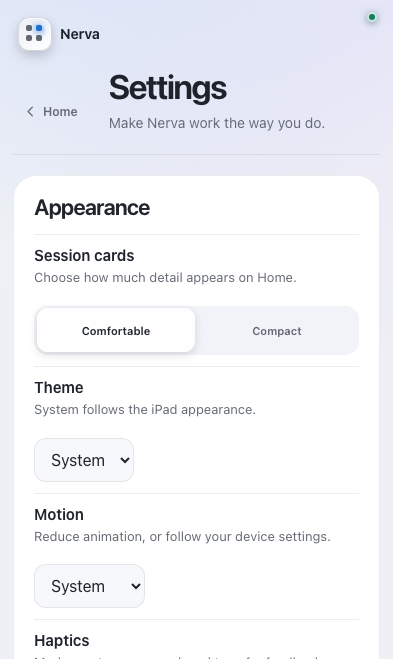
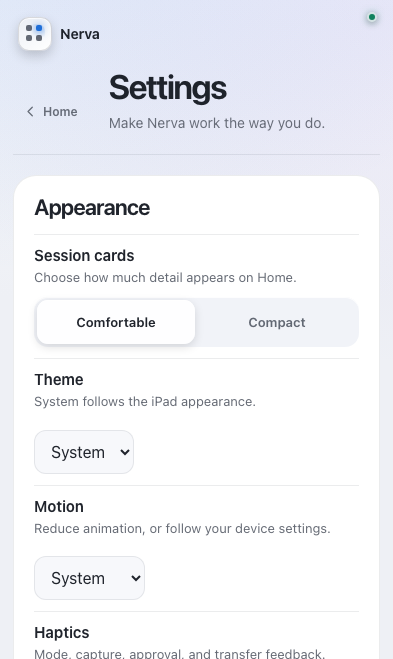
Keep appearance choices readable on portrait iPads

diff --git a/apps/web/e2e/codex-pad.spec.ts b/apps/web/e2e/codex-pad.spec.ts
@@ -2385,10 +2385,35 @@ test("approves only the exact pending request tuple", async ({ page }) => {
   });
 });
 
-test("shows real Settings controls and paired device management", async ({ page }) => {
+test("shows real Settings controls and paired device management", async ({ page }, testInfo) => {
+  if (testInfo.project.name.includes("portrait")) await page.setViewportSize({ width: 820, height: 1148 });
   await openAuthenticatedApp(page);
   await page.getByRole("button", { name: "Open Settings" }).click();
   await expect(page.getByRole("heading", { name: "Settings" })).toBeVisible();
+  await page.evaluate(async () => {
+    await Promise.all(document.getAnimations()
+      .filter((animation) => animation.effect?.getTiming().iterations !== Infinity)
+      .map((animation) => animation.finished.catch(() => undefined)));
+  });
+  const appearance = page.getByText("Choose how much detail appears on Home.", { exact: true });
+  const appearanceLayout = await appearance.evaluate((description) => {
+    const row = description.closest(".cp-setting-row")!;
+    const bounds = description.getBoundingClientRect();
+    const rowBounds = row.getBoundingClientRect();
+    return {
+      width: bounds.width, height: bounds.height, rowWidth: rowBounds.width,
+      lineHeight: Number.parseFloat(getComputedStyle(description).lineHeight),
+      minControlHeight: Math.min(...[...row.querySelectorAll("button")].map((button) => button.getBoundingClientRect().height)),
+      controlsFit: [...row.querySelectorAll("button")].every((button) => {
+        const control = button.getBoundingClientRect();
+        return control.left >= rowBounds.left - 1 && control.right <= rowBounds.right + 1;
+      }),
+    };
+  });
+  expect(appearanceLayout.width).toBeGreaterThanOrEqual(Math.min(240, appearanceLayout.rowWidth - 1));
+  expect(appearanceLayout.height).toBeLessThanOrEqual(appearanceLayout.lineHeight * 2 + 1);
+  expect(appearanceLayout.controlsFit, JSON.stringify(appearanceLayout)).toBe(true);
+  expect(appearanceLayout.minControlHeight).toBeGreaterThanOrEqual(44);
   await expect(page.getByText("This iPad", { exact: true })).toBeVisible();
   await expect(page.getByText("Background alerts", { exact: true })).toBeVisible();
   await expect(page.getByText("Tap a notification to open the task in Nerva. Decisions and approvals happen inside the app.")).toBeVisible();

diff --git a/apps/web/src/styles/polish.css b/apps/web/src/styles/polish.css
@@ -674,6 +674,9 @@
 .cp-settings-card > header > p:last-child { font-size: 14px; line-height: 1.5; }
 .cp-setting-row strong, .cp-settings-action strong, .cp-device-row strong { font-size: 15px; }
 .cp-setting-row small, .cp-settings-action small, .cp-device-row small, .cp-settings-caveat { font-size: 13px; line-height: 1.5; }
+.cp-setting-row--choices { grid-template-columns: minmax(0, 1fr); gap: 10px; }
+.cp-setting-row--choices > .cp-segmented { width: 100%; grid-auto-columns: minmax(0, 1fr); justify-self: stretch; }
+.cp-setting-row--choices .cp-segmented button { min-height: 44px; font-size: 13px; }
 .cp-settings-integration summary { min-height: 44px; cursor: pointer; font-size: 16px; }
 .cp-settings-integration summary span { display: block; margin-top: 6px; color: var(--cp-ink-secondary); font-size: 13px; }
 .cp-settings-integration[open] summary { margin-bottom: 16px; }

diff --git a/apps/web/src/components/SettingsPage.tsx b/apps/web/src/components/SettingsPage.tsx
@@ -122,7 +122,7 @@ export function SettingsPage({
       <div className="cp-settings__grid cp-enter cp-enter--2">
         <section className="cp-settings-card">
           <header><h2>Appearance</h2></header>
-          <div className="cp-setting-row">
+          <div className="cp-setting-row cp-setting-row--choices">
             <div><strong>Session cards</strong><small>Choose how much detail appears on Home.</small></div>
             <div className="cp-segmented cp-segmented--small">
               <button type="button" aria-pressed={preferences.cardDensity === "rich"} onClick={() => update({ cardDensity: "rich" })}>Comfortable</button>
